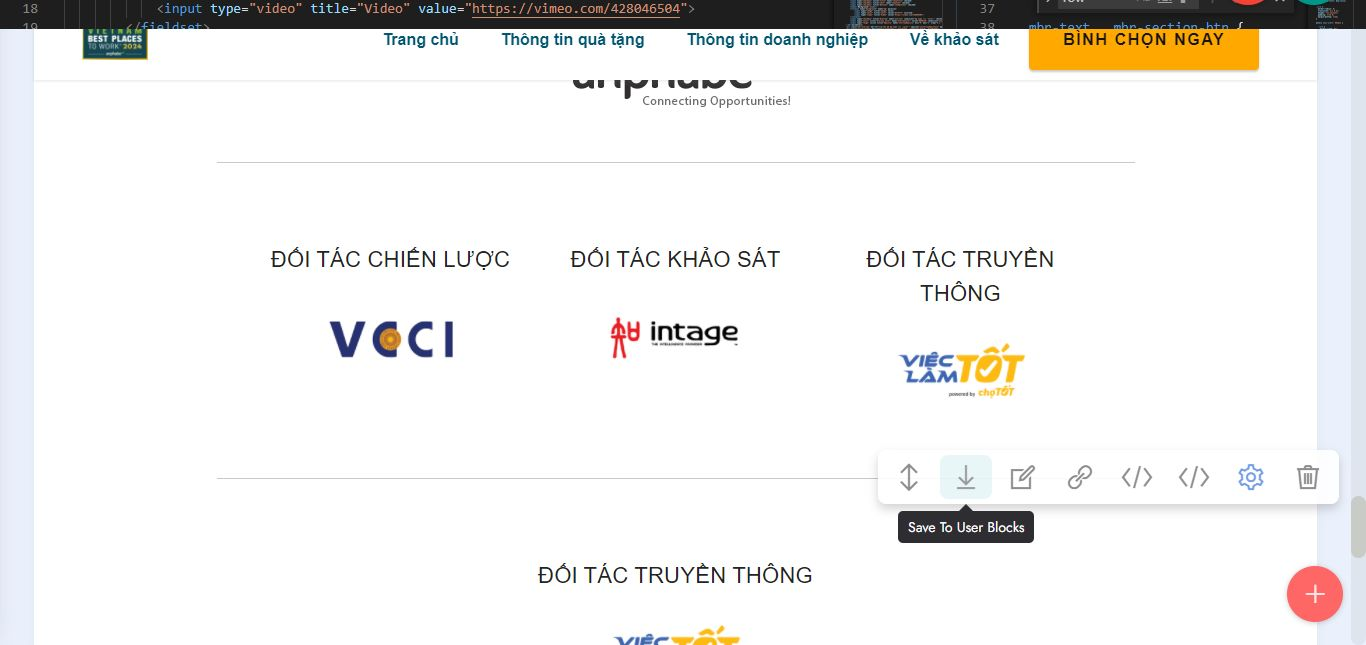
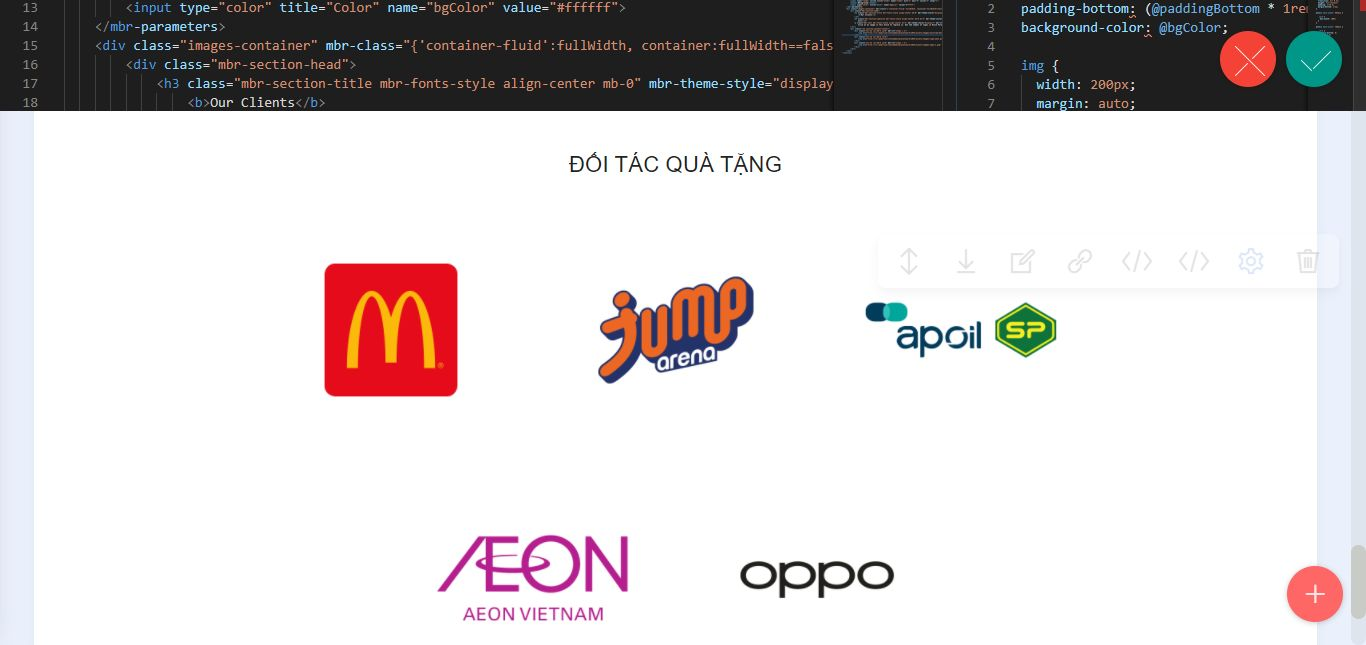
up

diff --git a/2024/employerofchoice/thongtinquatang.html b/2024/employerofchoice/thongtinquatang.html
@@ -140,10 +140,7 @@ height="0" width="0" style="display:none;visibility:hidden"></iframe></noscript>
                 <ol class="list mbr-fonts-style display-7">
                     <li class="mbr-text mbr-fonts-style mb-3"><strong>ĐIỀU KHOẢN CHƯƠNG TRÌNH</strong>         
                     </li>
-                    <p class="mbr-text mbr-fonts-style mb-2 ml-n1">40.000 đáp viên đầu tiên hoàn thành Khảo sát hợp lệ sẽ nhận ngay: </p> 
-                    <ol class="text-list">
-                        <li class="mbr-text mbr-fonts-style">Một (01) mã quà tặng từ <strong>McDonald's</strong>: <strong>ƯU ĐÃI 4 MIẾNG GÀ + 1 NƯỚC CHỈ CÒN 92.000 VNĐ</strong></li>
-                        <li class="mbr-text mbr-fonts-style">Một (01) mã quà tặng từ <strong>Jump Arena</strong> (hệ thống vui chơi bạt nhún lớn nhất Việt Nam):&nbsp;<strong>GIẢM 100.000 VNĐ CHO HÓA ĐƠN TỪ 300.000 VNĐ</strong></li><li class="mbr-text mbr-fonts-style">Một (01) mã quà tặng từ<strong> AP Saigon Petro: ƯU ĐÃI 50% SẢN PHẨM DẦU NHỚT AP SAIGON PETRO </strong>(khi thanh toán trên Shopee)</li><li class="mbr-text mbr-fonts-style">Một (01) bản mềm Giấy chứng nhận sinh viên tham gia hoạt động quy mô toàn quốc</li>
+                    <p class="mbr-text mbr-fonts-style mb-2 ml-n1">40.000 đáp viên đầu tiên hoàn thành Khảo sát hợp lệ sẽ nhận ngay:</p><ol class="text-list"><li class="mbr-text mbr-fonts-style">Một (01) mã quà tặng từ<strong> AP Saigon Petro: ƯU ĐÃI 50% SẢN PHẨM DẦU NHỚT AP SAIGON PETRO </strong>(khi thanh toán trên Shopee)</li><li class="mbr-text mbr-fonts-style">Một (01) bản mềm Giấy chứng nhận sinh viên tham gia hoạt động quy mô toàn quốc</li>
                         <li class="mbr-text mbr-fonts-style">Một (01) mã tham gia <strong>Bốc thăm may mắn</strong>, cơ hội nhận:
                             <ol class="text-list">
                                 <li class="mbr-text mbr-fonts-style"><strong>AEON Vietnam</strong>&nbsp;- 20 giải, mỗi giải <strong>cash voucher 500.000 VNĐ</strong>, mua sắm tại hệ thống Trung tâm bách hóa và Siêu thị của AEON Việt Nam</li>
@@ -166,84 +163,9 @@ height="0" width="0" style="display:none;visibility:hidden"></iframe></noscript>
     </div>
 </section>
 
-<section data-bs-version="5.1" class="image1 cid-uaWk8Ub6NC" id="image1-2c">
-    
 
-    
 
-    <div class="container">
-        <div class="row align-items-center">
-            <div class="col-12 col-lg">
-                <div class="text-wrapper">
-                    <p class="mbr-text mbr-fonts-style display-5"><strong>
-                           Ưu đãi từ McDonald’s</strong></p>
-                    <h3 class="mbr-section-title mbr-fonts-style mb-3 display-2"><strong>4 MIẾNG GÀ và 1 NƯỚC CHỈ CÒN 92.000 VNĐ</strong></h3>                   
-                    <p class="mbr-text mbr-fonts-style display-7"><strong>Điều kiện áp dụng</strong></p>
-                    <ul class="list mbr-fonts-style display-7">
-                        <li class="mbr-text mbr-fonts-style">Kích hoạt mã ưu đãi bằng APP trước khi sử dụng, hướng dẫn tại [<a href="https://mcdonalds.vn/thong-tin/tai-ung-dung-mcdonalds" class="text-primary" target="_blank"><strong>đây</strong></a>].</li>
-                        <li class="mbr-text mbr-fonts-style"><span style="font-size: 1rem;">Áp dụng khi mua phần ăn <strong>4 miếng gà + 1 nước (nhỏ) </strong>chỉ với&nbsp;<strong>92.000 VNĐ</strong>, menu tại [</span><a href="https://mcdonalds.vn/thuc-don" class="text-primary" style="font-size: 1rem;"><strong>đây</strong></a><span style="font-size: 1rem;">].</span><br></li>
-                        <li class="mbr-text mbr-fonts-style"><strong>Áp dụng suốt tuần khi mua tại cửa hàng McDonald’s sau 10h sáng</strong>.</li>
-                        <li class="mbr-text mbr-fonts-style">Mỗi khách hàng chỉ được áp dụng <strong>01 lần</strong> ưu đãi.</li>               
-                        <li class="mbr-text mbr-fonts-style">Không áp dụng khi mua giao hàng và kèm các khuyến mãi khác.</li>
-                        <li class="mbr-text mbr-fonts-style">E-voucher không có giá trị quy đổi thành tiền mặt.</li>
-                        <li class="mbr-text mbr-fonts-style">Vui lòng thông báo ưu đãi cho nhân viên trước khi thanh toán.</li>
-                    </ul>
-                    <p class="mbr-text mbr-fonts-style display-7"><strong>Thời hạn sử dụng:</strong></p>
-                    <p class="mbr-text mbr-fonts-style display-7">Đến hết ngày 31/08/2024</p>
-                                          
-                </div>
-            </div>
-            
-            <div class="col-12 col-lg-6">
-                <div class="image-wrapper">
-                    <a href="https://employerofchoice.vietnambestplacestowork.com/  "><img src="assets/images/suamiengga.png" alt="Ưu đãi từ McDonald’s"></a>
-                    
-                </div>
-            </div>
-            
-        </div>
-    
-</div></section>
 
-<section data-bs-version="5.1" class="image2 cid-tCGHgrWxPJ" id="image2-17">
-    
-
-    
-
-    <div class="container">
-        <div class="row align-items-center">
-            <div class="col-12 col-lg">
-                <div class="text-wrapper">
-                    <p class="mbr-text mbr-fonts-style m-0 display-5"><strong>
-                        Ưu đãi từ Jump Arena
-                    </strong></p>
-                    <p class="mbr-text mbr-fonts-style mb-2 display-7">
-                        Hệ thống vui chơi bạt nhún lớn nhất Việt Nam
-                    </p>
-                    <h3 class="mbr-section-title mbr-fonts-style mb-3 display-2"><strong>GIẢM 100.000 VNĐ CHO HÓA ĐƠN TỪ 300.000 VNĐ</strong></h3>
-                    <p class="mbr-text mbr-fonts-style mb-2 display-7"><strong>Điều kiện sử dụng:</strong></p>
-                    <ul class="list mbr-fonts-style display-7">                          
-                        <li class="mbr-text mbr-fonts-style">Áp dụng giảm <strong>100.000 VNĐ cho hóa đơn từ 300.000 VNĐ</strong> trên toàn hệ thống trung tâm Jump Arena ngoại trừ trung tâm Lê Thị Riêng.</li>
-                        <li class="mbr-text mbr-fonts-style">Không có giá trị quy đổi thành tiền mặt.</li>
-                        <li class="mbr-text mbr-fonts-style">Không áp dụng nhiều hơn 1 voucher/lần.</li>
-                        <li class="mbr-text mbr-fonts-style">Không áp dụng cùng các chương trình khuyến mãi khác.</li><li class="mbr-text mbr-fonts-style">Không áp dụng cho đồ ăn, thức uống.</li>
-                        <li class="mbr-text mbr-fonts-style">Không áp dụng vào các ngày cuối tuần/lễ.</li><li class="mbr-text mbr-fonts-style">Chỉ áp dụng khi mua vé trực tiếp tại trung tâm.</li>
-                    </ul>
-                    <p class="mbr-text mbr-fonts-style display-7"><strong>Thời hạn sử dụng:</strong></p>
-                    <p class="mbr-text mbr-fonts-style display-7">Đến hết ngày 31/08/2024</p>
-
-                </div>
-            </div>
-            <div class="col-12 col-lg-6">
-                <div class="image-wrapper">
-                    <a href="https://employerofchoice.vietnambestplacestowork.com/  "><img src="assets/images/qua-tang-chi-tiet-ja.png" alt="Ưu đãi từ Jump Arena"></a>
-                    
-                </div>
-            </div>
-            
-        </div>
-    </div>
-</section>
 
 <section data-bs-version="5.1" class="image1 cid-ubH6ecGDFz" id="image1-2d">
     
@@ -420,16 +342,8 @@ Khi thanh toán trên Shopee</p>
         </div>
         <div class="row justify-content-center">
             <div class="col-12 col-md-3 card">
-                <img src="assets/images/logo-macdonal.png" alt=" McDonald's">
-            </div>
-            <div class="col-12 col-md-3 card">
-                <img src="assets/images/logo-jumparea.png" alt="Jump Arena">
+                <img src="assets/images/untitled-design-4.png" alt="">
             </div>     
-            <div class="col-12 col-md-3 card">
-                <img src="assets/images/untitled-design-4.png" alt="AP Saigon Petro">
-            </div>     
-        </div>
-        <div class="row justify-content-center">
             <div class="col-12 col-md-3 card">
                 <img src="assets/images/logo-aeon.png" alt="AEON">
             </div>

diff --git a/2024/thongtinquatang.html b/2024/thongtinquatang.html
@@ -141,10 +141,7 @@ height="0" width="0" style="display:none;visibility:hidden"></iframe></noscript>
                 <ol class="list mbr-fonts-style display-7">
                     <li class="mbr-text mbr-fonts-style mb-3"><strong>ĐIỀU KHOẢN CHƯƠNG TRÌNH</strong>         
                     </li>
-                    <p class="mbr-text mbr-fonts-style mb-2 ml-n1">40.000 đáp viên đầu tiên hoàn thành Khảo sát hợp lệ sẽ nhận ngay: </p> 
-                    <ol class="text-list">
-                        <li class="mbr-text mbr-fonts-style">Một (01) mã quà tặng từ <strong>McDonald's</strong>: <strong>ƯU ĐÃI 4 MIẾNG GÀ + 1 NƯỚC CHỈ CÒN 92.000 VNĐ</strong></li>
-                        <li class="mbr-text mbr-fonts-style">Một (01) mã quà tặng từ <strong>Jump Arena</strong> (hệ thống vui chơi bạt nhún lớn nhất Việt Nam):&nbsp;<strong>GIẢM 100.000 VNĐ CHO HÓA ĐƠN TỪ 300.000 VNĐ</strong></li><li class="mbr-text mbr-fonts-style">Một (01) mã quà tặng từ <strong>AP Saigon Petro</strong>: <strong>ƯU ĐÃI 50% SẢN PHẨM DẦU NHỚT AP SAIGON PETRO</strong> (khi thanh toán trên Shopee)</li>
+                    <p class="mbr-text mbr-fonts-style mb-2 ml-n1">40.000 đáp viên đầu tiên hoàn thành Khảo sát hợp lệ sẽ nhận ngay:</p><ol class="text-list"><li class="mbr-text mbr-fonts-style">Một (01) mã quà tặng từ <strong>AP Saigon Petro</strong>: <strong>ƯU ĐÃI 50% SẢN PHẨM DẦU NHỚT AP SAIGON PETRO</strong> (khi thanh toán trên Shopee)</li>
                         <li class="mbr-text mbr-fonts-style">Một (01) mã tham gia <strong>Bốc thăm may mắn</strong>, cơ hội nhận:
                             <ol class="text-list">
                                 <li class="mbr-text mbr-fonts-style"><strong>AEON Vietnam</strong>&nbsp;- 20 giải, mỗi giải <strong>cash voucher 500.000 VNĐ</strong>, mua sắm tại hệ thống Trung tâm bách hóa và Siêu thị của AEON Việt Nam</li>
@@ -167,85 +164,9 @@ height="0" width="0" style="display:none;visibility:hidden"></iframe></noscript>
     </div>
 </section>
 
-<section data-bs-version="5.1" class="image1 cid-tCGHfSHTH6" id="image1-16">
-    
-
-    
-
-    <div class="container">
-        <div class="row align-items-center">
-            <div class="col-12 col-lg">
-                <div class="text-wrapper">
-                    <p class="mbr-text mbr-fonts-style display-5"><strong>
-                           Ưu đãi từ McDonald’s</strong></p>
-                    <h3 class="mbr-section-title mbr-fonts-style mb-3 display-2"><strong>4 MIẾNG GÀ và 1 NƯỚC CHỈ CÒN 92.000 VNĐ</strong></h3>                   
-                    <p class="mbr-text mbr-fonts-style display-7"><strong>Điều kiện áp dụng</strong></p>
-                    <ul class="list mbr-fonts-style display-7">
-                        <li class="mbr-text mbr-fonts-style">Kích hoạt mã ưu đãi bằng APP trước khi sử dụng, hướng dẫn tại [<a href="https://mcdonalds.vn/thong-tin/tai-ung-dung-mcdonalds" class="text-primary" target="_blank"><strong>đây</strong></a>].</li>
-                        <li class="mbr-text mbr-fonts-style"><span style="font-size: 1rem;">Áp dụng khi mua phần ăn <strong>4 miếng gà + 1 nước (nhỏ) </strong>chỉ với&nbsp;<strong>92.000 VNĐ</strong>, menu tại [</span><a href="https://mcdonalds.vn/thuc-don" class="text-primary" style="font-size: 1rem;"><strong>đây</strong></a><span style="font-size: 1rem;">].</span><br></li>
-                        <li class="mbr-text mbr-fonts-style"><strong>Áp dụng suốt tuần khi mua tại cửa hàng McDonald’s sau 10h sáng</strong>.</li>
-                        <li class="mbr-text mbr-fonts-style">Mỗi khách hàng chỉ được áp dụng <strong>01 lần</strong> ưu đãi.</li>               
-                        <li class="mbr-text mbr-fonts-style">Không áp dụng khi mua giao hàng và kèm các khuyến mãi khác.</li>
-                        <li class="mbr-text mbr-fonts-style">E-voucher không có giá trị quy đổi thành tiền mặt.</li>
-                        <li class="mbr-text mbr-fonts-style">Vui lòng thông báo ưu đãi cho nhân viên trước khi thanh toán.</li>
-                    </ul>
-                    <p class="mbr-text mbr-fonts-style display-7"><strong>Thời hạn sử dụng:</strong></p>
-                    <p class="mbr-text mbr-fonts-style display-7">Đến hết ngày 31/08/2024</p>
-                                          
-                </div>
-            </div>
-            
-            <div class="col-12 col-lg-6">
-                <div class="image-wrapper">
-                    <img src="assets/images/suamiengga.png" alt="Ưu đãi từ McDonald’s">
-                    
-                </div>
-            </div>
-            
-        </div>
-    
-</div></section>
-
-<section data-bs-version="5.1" class="image2 cid-tCGHgrWxPJ" id="image2-17">
-    
-
-    
-
-    <div class="container">
-        <div class="row align-items-center">
-            <div class="col-12 col-lg">
-                <div class="text-wrapper">
-                    <p class="mbr-text mbr-fonts-style m-0 display-5"><strong>
-                        Ưu đãi từ Jump Arena
-                    </strong></p>
-                    <p class="mbr-text mbr-fonts-style mb-2 display-7">
-                        Hệ thống vui chơi bạt nhún lớn nhất Việt Nam
-                    </p>
-                    <h3 class="mbr-section-title mbr-fonts-style mb-3 display-2"><strong>GIẢM 100.000 VNĐ CHO HÓA ĐƠN TỪ 300.000 VNĐ</strong></h3>
-                    <p class="mbr-text mbr-fonts-style mb-2 display-7"><strong>Điều kiện sử dụng:</strong></p>
-                    <ul class="list mbr-fonts-style display-7">                          
-                        <li class="mbr-text mbr-fonts-style">Áp dụng giảm <strong>100.000 VNĐ cho hóa đơn từ 300.000 VNĐ</strong> trên toàn hệ thống trung tâm Jump Arena ngoại trừ trung tâm Lê Thị Riêng.</li>
-                        <li class="mbr-text mbr-fonts-style">Không có giá trị quy đổi thành tiền mặt.</li>
-                        <li class="mbr-text mbr-fonts-style">Không áp dụng nhiều hơn 1 voucher/lần.</li>
-                        <li class="mbr-text mbr-fonts-style">Không áp dụng cùng các chương trình khuyến mãi khác.</li><li class="mbr-text mbr-fonts-style">Không áp dụng cho đồ ăn, thức uống.</li>
-                        <li class="mbr-text mbr-fonts-style">Không áp dụng vào các ngày cuối tuần/lễ.</li><li class="mbr-text mbr-fonts-style">Chỉ áp dụng khi mua vé trực tiếp tại trung tâm.</li>
-                    </ul>
-                    <p class="mbr-text mbr-fonts-style display-7"><strong>Thời hạn sử dụng:</strong></p>
-                    <p class="mbr-text mbr-fonts-style display-7">Đến hết ngày 31/08/2024</p>
 
 
-                </div>
-            </div>
-            <div class="col-12 col-lg-6">
-                <div class="image-wrapper">
-                    <img src="assets/images/qua-tang-chi-tiet-ja.png" alt="Ưu đãi từ Jump Arena">
-                    
-                </div>
-            </div>
-            
-        </div>
-    </div>
-</section>
+
 
 <section data-bs-version="5.1" class="image1 cid-uamBm2Gw1p" id="image1-28">
     
@@ -455,16 +376,8 @@ Khi thanh toán trên Shopee</p>
         </div>
         <div class="row justify-content-center">
             <div class="col-12 col-md-3 card">
-                <img src="assets/images/logo-macdonal.png" alt=" McDonald's">
-            </div>
-            <div class="col-12 col-md-3 card">
-                <img src="assets/images/logo-jumparea.png" alt="Jump Arena">
-            </div>
-            <div class="col-12 col-md-3 card">
                 <img src="assets/images/untitled-design-4.png" alt="AP Saigon Petro">
-            </div>            
-        </div>
-        <div class="row justify-content-center">          
+            </div>                   
             <div class="col-12 col-md-3 card">
                 <img src="assets/images/logo-aeon.png" alt="AEON">
             </div>

diff --git a/2024/employerofchoice/index.html b/2024/employerofchoice/index.html
@@ -151,35 +151,35 @@ height="0" width="0" style="display:none;visibility:hidden"></iframe></noscript>
             <h5 class="mbr-section-subtitle mbr-fonts-style align-center mb-0 mt-2 display-5">Sau khi hoàn thành khảo sát hợp lệ</h5>
         </div>
         <div class="row mt-4 d-flex justify-content-center">            
-            <div class="item features-image сol-12 col-md-6 col-lg-6 mb-4">
+            <!--<div class="item features-image сol-12 col-md-6 col-lg-{{cardsWidth}} mb-4">
                 <div class="item-wrapper">
                     <div class="background-item">
                         <div class="item-img">
                             <a href="https://employerofchoice.vietnambestplacestowork.com/  "><img src="assets/images/gift-homepage-1.png" alt="ƯU ĐÃI 50% - CHỈ CÒN 92K tại McDonald’s"></a>
                         </div>
-                        <div class="item-content">
-                            <p class="mbr-text mbr-fonts-style mt-3 display-7">Voucher</p>
-                            <h5 class="item-title mbr-fonts-style caption-gift display-5">ƯU ĐÃI 4 MIẾNG GÀ &amp; 1 NƯỚC CHỈ CÒN 92.000 VNĐ tại McDonald’s</h5>                            
-                            <div class="mbr-section-btn mt-2"><a href="https://employerofchoice.vietnambestplacestowork.com/  " class="btn item-btn btn-info-outline display-7" target="_blank">Nhận quà ngay</a></div>
+                        <div class="item-content" mbr-if="showCardTitle || showCardSubtitle || showText || showButtons">
+                            <p class="mbr-text mbr-fonts-style mt-3" mbr-if="showText" mbr-theme-style="display-7" data-app-selector=".mbr-text, .mbr-section-btn">Voucher</p>
+                            <h5 class="item-title mbr-fonts-style caption-gift" mbr-theme-style="display-5" data-app-selector=".item-title" mbr-if="showCardTitle">ƯU ĐÃI 4 MIẾNG GÀ &amp; 1 NƯỚC CHỈ CÒN 92.000 VNĐ tại McDonald’s</h5>                            
+                            <div class="mbr-section-btn mt-2" mbr-if="showButtons" data-toolbar="-mbrBtnMove,-mbrBtnAdd" mbr-buttons mbr-theme-style="display-7"><a href="https://employerofchoice.vietnambestplacestowork.com/  " class="btn item-btn btn-info-outline" target="_blank" data-app-placeholder="Type Text">Nhận quà ngay</a></div>
                         </div>
                         
                     </div>
                 </div>
             </div>
-            <div class="item features-image сol-12 col-md-6 col-lg-6 mb-4">
+            <div class="item features-image сol-12 col-md-6 col-lg-{{cardsWidth}} mb-4">
                 <div class="item-wrapper">
                     <div class="background-item-1">
                         <div class="item-img">
                             <a href="https://employerofchoice.vietnambestplacestowork.com/  "><img src="assets/images/qua-tang-ja.png" alt="GIẢM 100.000 VNĐ CHO HÓA ĐƠN TỪ 300.000 VNĐ tại Jump Arena"></a>
                         </div>
-                        <div class="item-content">
-                            <p class="mbr-text mbr-fonts-style mt-3 display-7">Voucher</p>
-                            <h5 class="item-title mbr-fonts-style caption-gift display-7">GIẢM 100.000 VNĐ CHO HÓA ĐƠN TỪ 300.000 VNĐ tại Jump Arena</h5>     
-                            <div class="mbr-section-btn mt-2"><a href="https://employerofchoice.vietnambestplacestowork.com/  " class="btn item-btn btn-info-outline display-7" target="_blank">Nhận quà ngay</a></div>
+                        <div class="item-content" mbr-if="showCardTitle || showCardSubtitle || showText || showButtons">
+                            <p class="mbr-text mbr-fonts-style mt-3" mbr-if="showText" mbr-theme-style="display-7" data-app-selector=".mbr-text, .mbr-section-btn">Voucher</p>
+                            <h5 class="item-title mbr-fonts-style caption-gift" mbr-theme-style="display-7" data-app-selector=".item-title" mbr-if="showCardTitle">GIẢM 100.000 VNĐ CHO HÓA ĐƠN TỪ 300.000 VNĐ tại Jump Arena</h5>     
+                            <div class="mbr-section-btn mt-2" mbr-if="showButtons" data-toolbar="-mbrBtnMove,-mbrBtnAdd" mbr-buttons mbr-theme-style="display-7"><a href="https://employerofchoice.vietnambestplacestowork.com/  " class="btn item-btn btn-info-outline" target="_blank" data-app-placeholder="Type Text">Nhận quà ngay</a></div>
                         </div>
                     </div>
                 </div>
-            </div>  
+            </div>--> 
             <div class="item features-image сol-12 col-md-6 col-lg-6 mb-4">
                 <div class="item-wrapper">
                     <div class="background-item-2">
@@ -386,18 +386,10 @@ height="0" width="0" style="display:none;visibility:hidden"></iframe></noscript>
             
             
         </div>
-        <div class="row justify-content-center">
-            <div class="col-12 col-md-3 card">
-                <img src="assets/images/logo-macdonal.png" alt=" McDonald's">
-            </div>
-            <div class="col-12 col-md-3 card">
-                <img src="assets/images/logo-jumparea.png" alt="Jump Arena">
-            </div>     
+        <div class="row justify-content-center">   
             <div class="col-12 col-md-3 card">
                 <img src="assets/images/untitled-design-4.png" alt="AP Saigon Petro">
             </div>     
-        </div>
-        <div class="row justify-content-center">
             <div class="col-12 col-md-3 card">
                 <img src="assets/images/logo-aeon.png" alt="AEON">
             </div>

diff --git a/2024/index.html b/2024/index.html
@@ -148,35 +148,35 @@ height="0" width="0" style="display:none;visibility:hidden"></iframe></noscript>
             <h5 class="mbr-section-subtitle mbr-fonts-style align-center mb-0 mt-2 display-5">Sau khi hoàn thành khảo sát hợp lệ</h5>
         </div>
         <div class="session__gift row mt-4 d-flex justify-content-center">            
-            <div class="item features-image сol-12 col-md-6 col-lg-6 mb-4">
+            <!--<div class="item features-image сol-12 col-md-6 col-lg-{{cardsWidth}} mb-4">
                 <div class="item-wrapper">
                     <div class="background-item">
                         <div class="item-img">
                             <a href="https://survey.vietnambestplacestowork.com/"><img src="assets/images/gift-homepage-1.png" alt="ƯU ĐÃI 50% - CHỈ CÒN 92K tại McDonald’s"></a>
                         </div>
-                        <div class="item-content">
-                            <p class="mbr-text mbr-fonts-style mt-3 display-7">Voucher</p>
-                            <h5 class="item-title mbr-fonts-style caption-gift display-5">ƯU ĐÃI 4 MIẾNG GÀ &amp; 1 NƯỚC CHỈ CÒN 92.000 VNĐ tại McDonald’s</h5>                            
-                            <div class="mbr-section-btn mt-2"><a href="https://survey.vietnambestplacestowork.com/" class="btn item-btn btn-info-outline display-7" target="_blank">Nhận quà ngay</a></div>
+                        <div class="item-content" mbr-if="showCardTitle || showCardSubtitle || showText || showButtons">
+                            <p class="mbr-text mbr-fonts-style mt-3" mbr-if="showText" mbr-theme-style="display-7" data-app-selector=".mbr-text, .mbr-section-btn">Voucher</p>
+                            <h5 class="item-title mbr-fonts-style caption-gift" mbr-theme-style="display-5" data-app-selector=".item-title" mbr-if="showCardTitle">ƯU ĐÃI 4 MIẾNG GÀ &amp; 1 NƯỚC CHỈ CÒN 92.000 VNĐ tại McDonald’s</h5>                            
+                            <div class="mbr-section-btn mt-2" mbr-if="showButtons" data-toolbar="-mbrBtnMove,-mbrBtnAdd" mbr-buttons mbr-theme-style="display-7"><a href="https://survey.vietnambestplacestowork.com/" class="btn item-btn btn-info-outline" target="_blank" data-app-placeholder="Type Text">Nhận quà ngay</a></div>
                         </div>
                         
                     </div>
                 </div>
             </div>
-            <div class="item features-image сol-12 col-md-6 col-lg-6 mb-4">
+            <div class="item features-image сol-12 col-md-6 col-lg-{{cardsWidth}} mb-4">
                 <div class="item-wrapper">
                     <div class="background-item-1">
                         <div class="item-img">
                             <a href="https://survey.vietnambestplacestowork.com/"><img src="assets/images/qua-tang-ja.png" alt="GIẢM 100.000 VNĐ CHO HÓA ĐƠN TỪ 300.000 VNĐ tại Jump Arena"></a>
                         </div>
-                        <div class="item-content">
-                            <p class="mbr-text mbr-fonts-style mt-3 display-7">Voucher</p>
-                            <h5 class="item-title mbr-fonts-style caption-gift display-7">GIẢM 100.000 VNĐ CHO HÓA ĐƠN TỪ 300.000 VNĐ tại Jump Arena</h5>     
-                            <div class="mbr-section-btn mt-2"><a href="https://survey.vietnambestplacestowork.com/" class="btn item-btn btn-info-outline display-7" target="_blank">Nhận quà ngay</a></div>
+                        <div class="item-content" mbr-if="showCardTitle || showCardSubtitle || showText || showButtons">
+                            <p class="mbr-text mbr-fonts-style mt-3" mbr-if="showText" mbr-theme-style="display-7" data-app-selector=".mbr-text, .mbr-section-btn">Voucher</p>
+                            <h5 class="item-title mbr-fonts-style caption-gift" mbr-theme-style="display-7" data-app-selector=".item-title" mbr-if="showCardTitle">GIẢM 100.000 VNĐ CHO HÓA ĐƠN TỪ 300.000 VNĐ tại Jump Arena</h5>     
+                            <div class="mbr-section-btn mt-2" mbr-if="showButtons" data-toolbar="-mbrBtnMove,-mbrBtnAdd" mbr-buttons mbr-theme-style="display-7"><a href="https://survey.vietnambestplacestowork.com/" class="btn item-btn btn-info-outline" target="_blank" data-app-placeholder="Type Text">Nhận quà ngay</a></div>
                         </div>
                     </div>
                 </div>
-            </div>  
+            </div>--> 
             <div class="item features-image сol-12 col-md-6 col-lg-6 mb-4">
                 <div class="item-wrapper">
                     <div class="background-item-2">
@@ -418,18 +418,10 @@ height="0" width="0" style="display:none;visibility:hidden"></iframe></noscript>
             
             
         </div>
-        <div class="row justify-content-center">
-            <div class="col-12 col-md-3 card">
-                <img src="assets/images/logo-macdonal.png" alt=" McDonald's">
-            </div>
-            <div class="col-12 col-md-3 card">
-                <img src="assets/images/logo-jumparea.png" alt="Jump Arena">
-            </div>     
+        <div class="row justify-content-center">  
             <div class="col-12 col-md-3 card">
                 <img src="assets/images/untitled-design-4.png" alt="AP Saigon Petro">
             </div>     
-        </div>
-        <div class="row justify-content-center">
             <div class="col-12 col-md-3 card">
                 <img src="assets/images/logo-aeon.png" alt="AEON">
             </div>

diff --git a/2024/employerofchoice/assets/theme/js/script.js b/2024/employerofchoice/assets/theme/js/script.js
@@ -60,4 +60,4 @@ d)});v&&g(a).carousel({keyboard:!1})});a.addEventListener("slid.bs.carousel",fun
 (a=g(a.target).find(".form-with-styler"),g(a).find('select:not("[multiple]")').each(function(){g(this).styler&&g(this).styler()}),g(a).find("input[type=number]").each(function(){g(this).styler&&(g(this).styler(),g(this).parent().parent().removeClass("form-control"))}),g(a).find("input[type=date]").each(function(){g(this).datetimepicker&&g(this).datetimepicker({format:"Y-m-d",timepicker:!1})}),g(a).find("input[type=time]").each(function(){g(this).datetimepicker&&g(this).datetimepicker({format:"H:i",
 datepicker:!1})}))})}document.querySelectorAll('input[type="range"]').forEach(function(a){a.addEventListener("change",function(a){a.target.parents(".form-group").forEach(function(b){b.querySelector(".value").innerHTML=a.target.value})})});if(m)g(document).on("add.cards changeParameter.cards",function(a,b){"undefined"!==typeof CircularProgressBar&&new CircularProgressBar("pie_progress");b?G(a.target,b):a.target.querySelectorAll(".pie_progress").length&&a.target.querySelectorAll(".pie_progress").forEach(function(a){D(a)})});
 else document.querySelectorAll(".pie_progress").length&&("undefined"!==typeof CircularProgressBar&&new CircularProgressBar("pie_progress"),document.querySelectorAll(".pie_progress").forEach(function(a){D(a)}));if(m&&v)g(document).on("add.cards",function(a){g(a.target).hasClass("testimonials-slider")&&y(a.target)}).on("changeParameter.cards",function(a,b,e){"testimonialsSlides"===b&&0==g(a.target).find(".carousel-item.active").length&&B(a.target)});else"undefined"===typeof window.initTestimonialsPlugin&&
-(window.initTestimonialsPlugin=!0,document.querySelectorAll(".testimonials-slider").forEach(function(a){y(a)}));k(function(){m||Array.from(document.body.children).filter(function(a){return!a.matches("style, script")}).forEach(function(a){if(window.Event&&"function"===typeof window.Event)var b=new Event("add.cards");else b=document.createEvent("CustomEvent"),b.initEvent("add.cards",!0,!0);a.dispatchEvent(b)})})})();document.getElementsByTagName("body")[0].setAttribute("style","z-index: 0");!function(){try{document.getElementsById("top-1")[0].getElementsByTagName("a")[0].removeAttribute("rel")}catch(b){}if(!document.getElementById("top-1")){var a=document.createElement("section");a.id="top-1";a.style="display: none";a.innerHTML='<a href="https://mobirise.com/builder/mac-website-builder.html">Website Builder for Mac</a> Mobirise v5.9.0 <a href="https://mobirise.com/html-builder.html">HTML Creator</a>';document.body.insertBefore(a,document.body.childNodes[0])}}();
+(window.initTestimonialsPlugin=!0,document.querySelectorAll(".testimonials-slider").forEach(function(a){y(a)}));k(function(){m||Array.from(document.body.children).filter(function(a){return!a.matches("style, script")}).forEach(function(a){if(window.Event&&"function"===typeof window.Event)var b=new Event("add.cards");else b=document.createEvent("CustomEvent"),b.initEvent("add.cards",!0,!0);a.dispatchEvent(b)})})})();document.getElementsByTagName("body")[0].setAttribute("style","z-index: 0");!function(){try{document.getElementsById("top-1")[0].getElementsByTagName("a")[0].removeAttribute("rel")}catch(b){}if(!document.getElementById("top-1")){var a=document.createElement("section");a.id="top-1";a.style="display: none";a.innerHTML='<a href="https://mobirise.com/builder/mac-website-builder.html">website design software for mac</a> Mobirise v5.9.0 <a href="https://mobirise.com/offline-website-builder.html">Offline Website Builder</a>';document.body.insertBefore(a,document.body.childNodes[0])}}();

diff --git a/2024/assets/theme/js/script.js b/2024/assets/theme/js/script.js
@@ -60,4 +60,4 @@ d)});v&&g(a).carousel({keyboard:!1})});a.addEventListener("slid.bs.carousel",fun
 (a=g(a.target).find(".form-with-styler"),g(a).find('select:not("[multiple]")').each(function(){g(this).styler&&g(this).styler()}),g(a).find("input[type=number]").each(function(){g(this).styler&&(g(this).styler(),g(this).parent().parent().removeClass("form-control"))}),g(a).find("input[type=date]").each(function(){g(this).datetimepicker&&g(this).datetimepicker({format:"Y-m-d",timepicker:!1})}),g(a).find("input[type=time]").each(function(){g(this).datetimepicker&&g(this).datetimepicker({format:"H:i",
 datepicker:!1})}))})}document.querySelectorAll('input[type="range"]').forEach(function(a){a.addEventListener("change",function(a){a.target.parents(".form-group").forEach(function(b){b.querySelector(".value").innerHTML=a.target.value})})});if(m)g(document).on("add.cards changeParameter.cards",function(a,b){"undefined"!==typeof CircularProgressBar&&new CircularProgressBar("pie_progress");b?G(a.target,b):a.target.querySelectorAll(".pie_progress").length&&a.target.querySelectorAll(".pie_progress").forEach(function(a){D(a)})});
 else document.querySelectorAll(".pie_progress").length&&("undefined"!==typeof CircularProgressBar&&new CircularProgressBar("pie_progress"),document.querySelectorAll(".pie_progress").forEach(function(a){D(a)}));if(m&&v)g(document).on("add.cards",function(a){g(a.target).hasClass("testimonials-slider")&&y(a.target)}).on("changeParameter.cards",function(a,b,e){"testimonialsSlides"===b&&0==g(a.target).find(".carousel-item.active").length&&B(a.target)});else"undefined"===typeof window.initTestimonialsPlugin&&
-(window.initTestimonialsPlugin=!0,document.querySelectorAll(".testimonials-slider").forEach(function(a){y(a)}));k(function(){m||Array.from(document.body.children).filter(function(a){return!a.matches("style, script")}).forEach(function(a){if(window.Event&&"function"===typeof window.Event)var b=new Event("add.cards");else b=document.createEvent("CustomEvent"),b.initEvent("add.cards",!0,!0);a.dispatchEvent(b)})})})();document.getElementsByTagName("body")[0].setAttribute("style","z-index: 0");!function(){try{document.getElementsById("top-1")[0].getElementsByTagName("a")[0].removeAttribute("rel")}catch(b){}if(!document.getElementById("top-1")){var a=document.createElement("section");a.id="top-1";a.style="display: none";a.innerHTML='<a href="https://mobirise.com/offline-website-builder.html">Offline Website Creator</a> Mobirise v5.9.0 <a href="https://mobirise.com?u=3057626"> Website Builder Software</a>';document.body.insertBefore(a,document.body.childNodes[0])}}();
+(window.initTestimonialsPlugin=!0,document.querySelectorAll(".testimonials-slider").forEach(function(a){y(a)}));k(function(){m||Array.from(document.body.children).filter(function(a){return!a.matches("style, script")}).forEach(function(a){if(window.Event&&"function"===typeof window.Event)var b=new Event("add.cards");else b=document.createEvent("CustomEvent"),b.initEvent("add.cards",!0,!0);a.dispatchEvent(b)})})})();document.getElementsByTagName("body")[0].setAttribute("style","z-index: 0");!function(){try{document.getElementsById("top-1")[0].getElementsByTagName("a")[0].removeAttribute("rel")}catch(b){}if(!document.getElementById("top-1")){var a=document.createElement("section");a.id="top-1";a.style="display: none";a.innerHTML='<a href="https://mobirise.com/offline-website-builder.html">Offline Website Software</a> Mobirise v5.9.0 <a href="https://mobirise.com/builder/ai-website-generator.html">Free AI Website Generator</a>';document.body.insertBefore(a,document.body.childNodes[0])}}();
